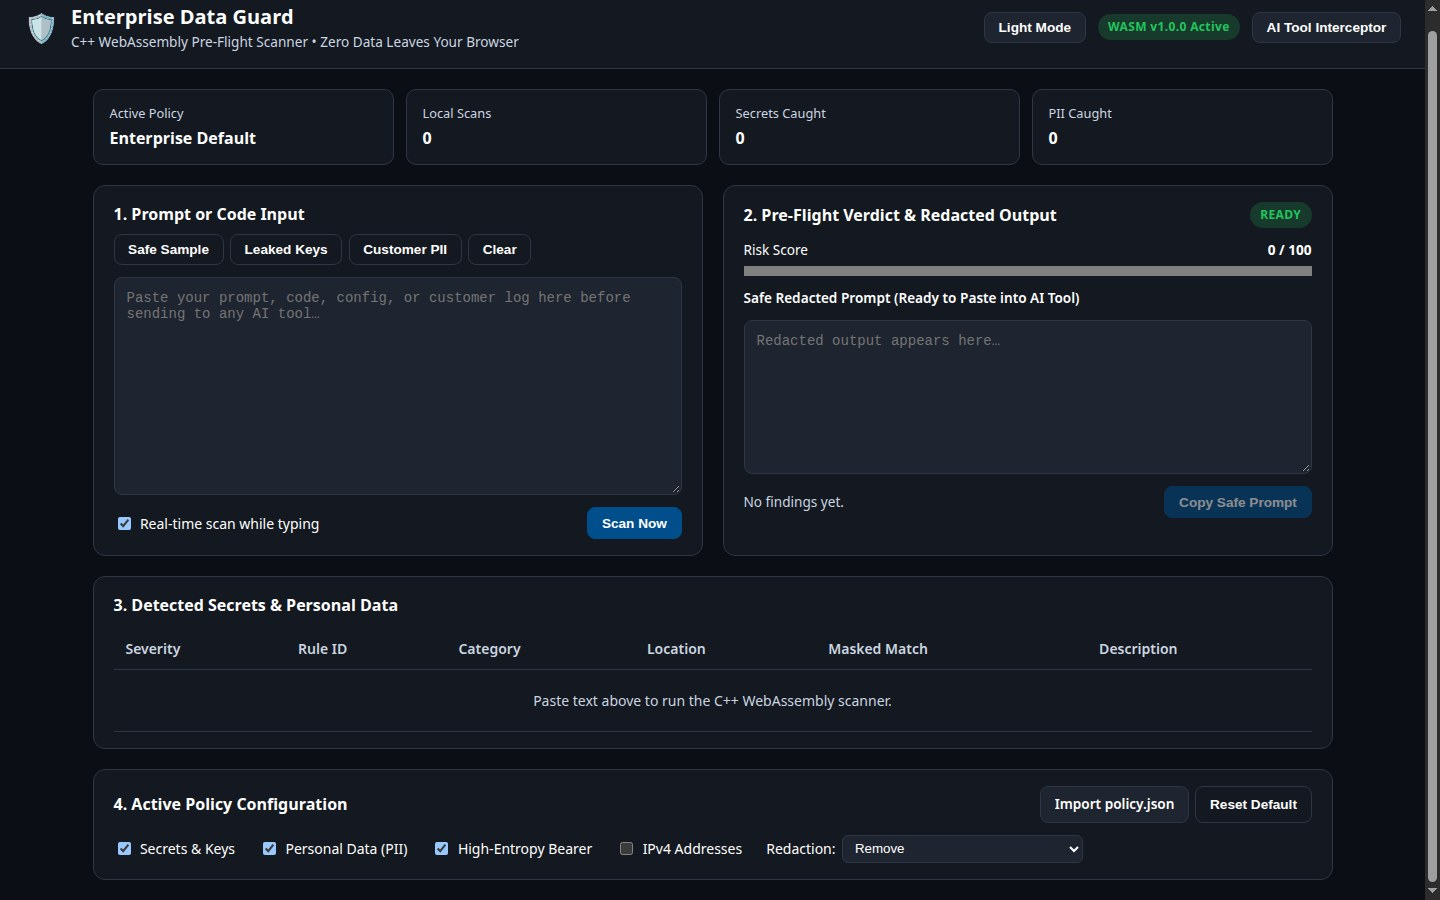
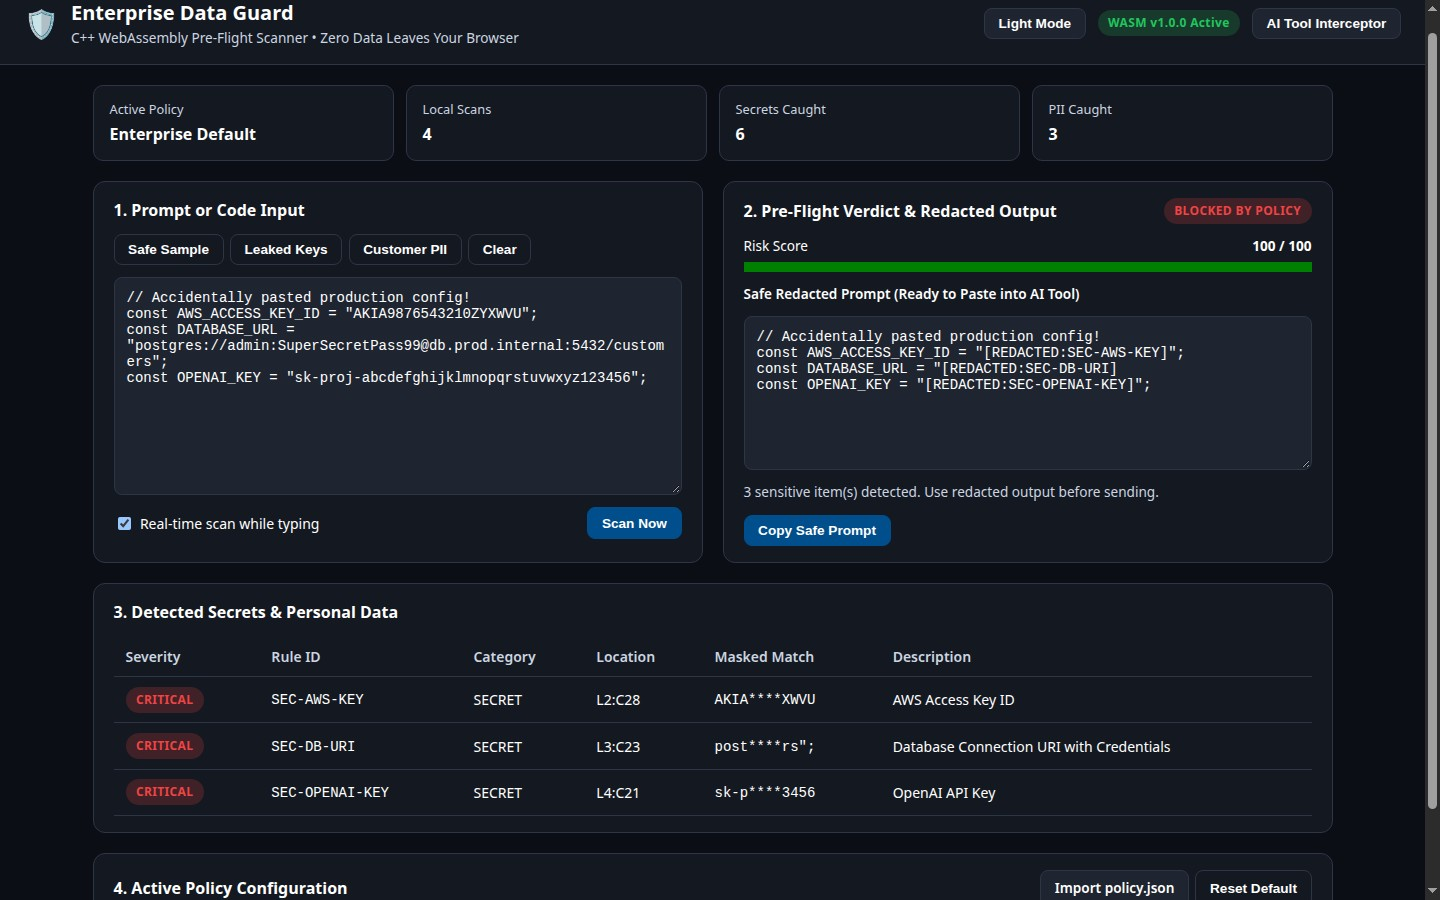
Replace Enterprise Data Guard screenshots with 5 dark/light feature captures

diff --git a/data/projects.js b/data/projects.js
@@ -219,11 +219,11 @@ window.PORTFOLIO = {
       summary: "Client-side C++17 / WebAssembly secret and personal-data scanner (Emscripten data_guard.wasm) with a native GTK+ 3 Admin Control Centre, a zero-trust web dashboard and a Chrome extension that redact API keys, JWTs, credit cards, SSNs and IBANs before a single byte leaves the browser.",
       stack: ["C++17", "Emscripten", "WebAssembly", "GTK+ 3", "Chrome Extension (MV3)", "Docker"],
       images: [
-        { src: "assets/cpp-enterprise-data-guard/dark-01-dashboard-top.jpg", lightSrc: "assets/cpp-enterprise-data-guard/light-01-dashboard-top.jpg", alt: "Enterprise Data Guard WebAssembly dashboard overview", caption: "1. Zero-Trust Web Dashboard" },
-        { src: "assets/cpp-enterprise-data-guard/dark-02-scanner-input.jpg", lightSrc: "assets/cpp-enterprise-data-guard/light-02-scanner-input.jpg", alt: "Enterprise Data Guard pre-flight prompt scanner input", caption: "2. Pre-Flight Prompt Scanner" },
-        { src: "assets/cpp-enterprise-data-guard/dark-03-findings-table.jpg", lightSrc: "assets/cpp-enterprise-data-guard/light-03-findings-table.jpg", alt: "Enterprise Data Guard secret and PII findings table", caption: "3. Secret & PII Findings Table" },
-        { src: "assets/cpp-enterprise-data-guard/dark-04-policy-controls.jpg", lightSrc: "assets/cpp-enterprise-data-guard/light-04-policy-controls.jpg", alt: "Enterprise Data Guard policy and redaction controls", caption: "4. Policy & Redaction Controls" },
-        { src: "assets/cpp-enterprise-data-guard/dark-05-bottom.jpg", lightSrc: "assets/cpp-enterprise-data-guard/light-05-bottom.jpg", alt: "Enterprise Data Guard local statistics and export", caption: "5. Local Stats & Policy Export" },
+        { src: "assets/cpp-enterprise-data-guard/dark-01-dashboard-safe.jpg", lightSrc: "assets/cpp-enterprise-data-guard/light-01-dashboard-safe.jpg", alt: "Enterprise Data Guard WebAssembly dashboard with safe prompt scan", caption: "1. Zero-Trust Web Dashboard (Safe Scan)" },
+        { src: "assets/cpp-enterprise-data-guard/dark-02-leaked-keys-scan.jpg", lightSrc: "assets/cpp-enterprise-data-guard/light-02-leaked-keys-scan.jpg", alt: "Enterprise Data Guard blocking leaked AWS, database URI and OpenAI keys", caption: "2. Leaked Keys Scan & Redaction" },
+        { src: "assets/cpp-enterprise-data-guard/dark-03-pii-findings-table.jpg", lightSrc: "assets/cpp-enterprise-data-guard/light-03-pii-findings-table.jpg", alt: "Enterprise Data Guard detecting email, SSN and Luhn-validated credit card PII", caption: "3. Customer PII Findings Table" },
+        { src: "assets/cpp-enterprise-data-guard/dark-04-policy-controls.jpg", lightSrc: "assets/cpp-enterprise-data-guard/light-04-policy-controls.jpg", alt: "Enterprise Data Guard active policy controls with placeholder redaction mode", caption: "4. Active Policy & Placeholder Redaction" },
+        { src: "assets/cpp-enterprise-data-guard/dark-05-interceptor-dialog.jpg", lightSrc: "assets/cpp-enterprise-data-guard/light-05-interceptor-dialog.jpg", alt: "Enterprise Data Guard AI Tool Prompt Interceptor dialog", caption: "5. AI Tool Prompt Interceptor" },
         { src: "assets/cpp-enterprise-data-guard/github.jpg", lightSrc: "assets/cpp-enterprise-data-guard/github-light.jpg", alt: "The cpp-enterprise-data-guard repository page on GitHub", caption: "6. Open source on GitHub" }
       ],
       run: { src: "demos/data-guard-admin/index.html", height: 780, note: "Runs the C++ AdminController compiled to WebAssembly with the web dashboard linked inside. Native GTK3 file dialogs map to browser file pickers; the Chrome prompt-interception extension (.zip) will not install on Android or iOS browsers and requires desktop Chrome/Chromium." },
